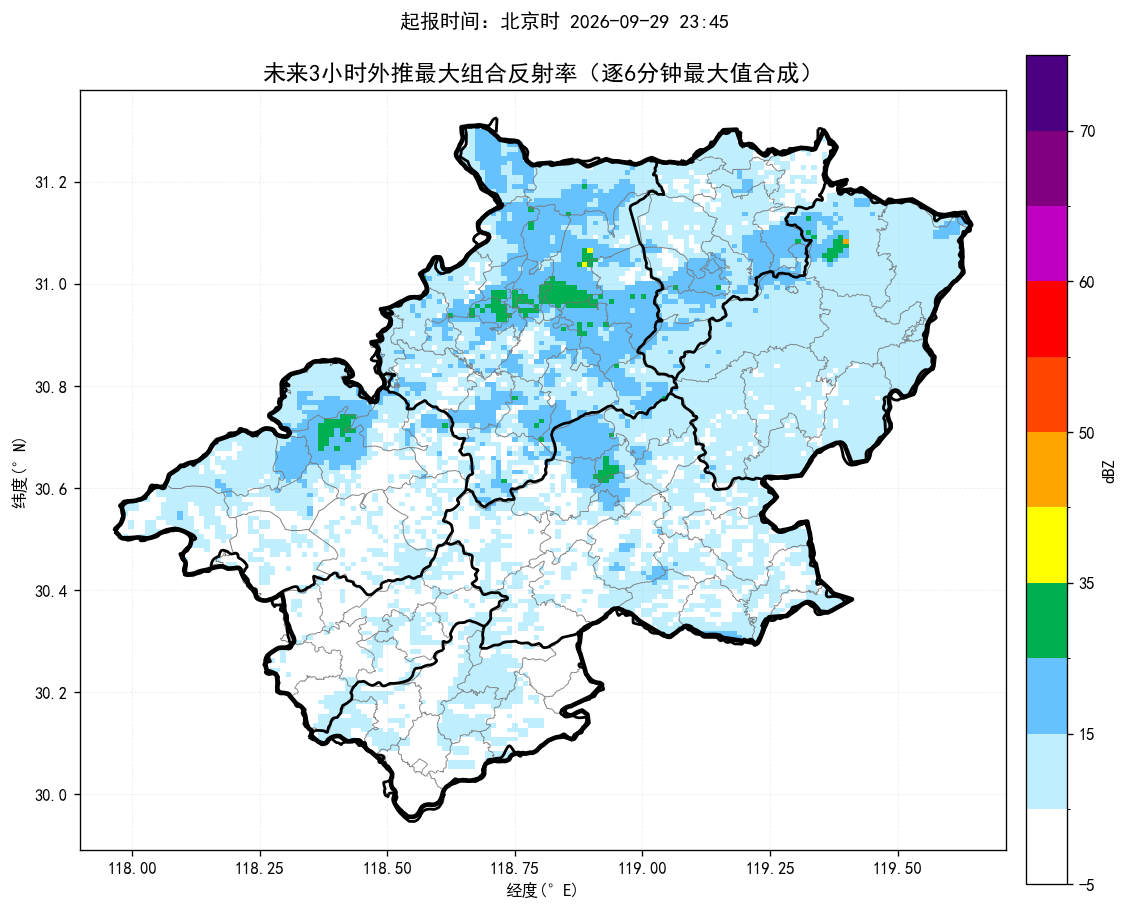
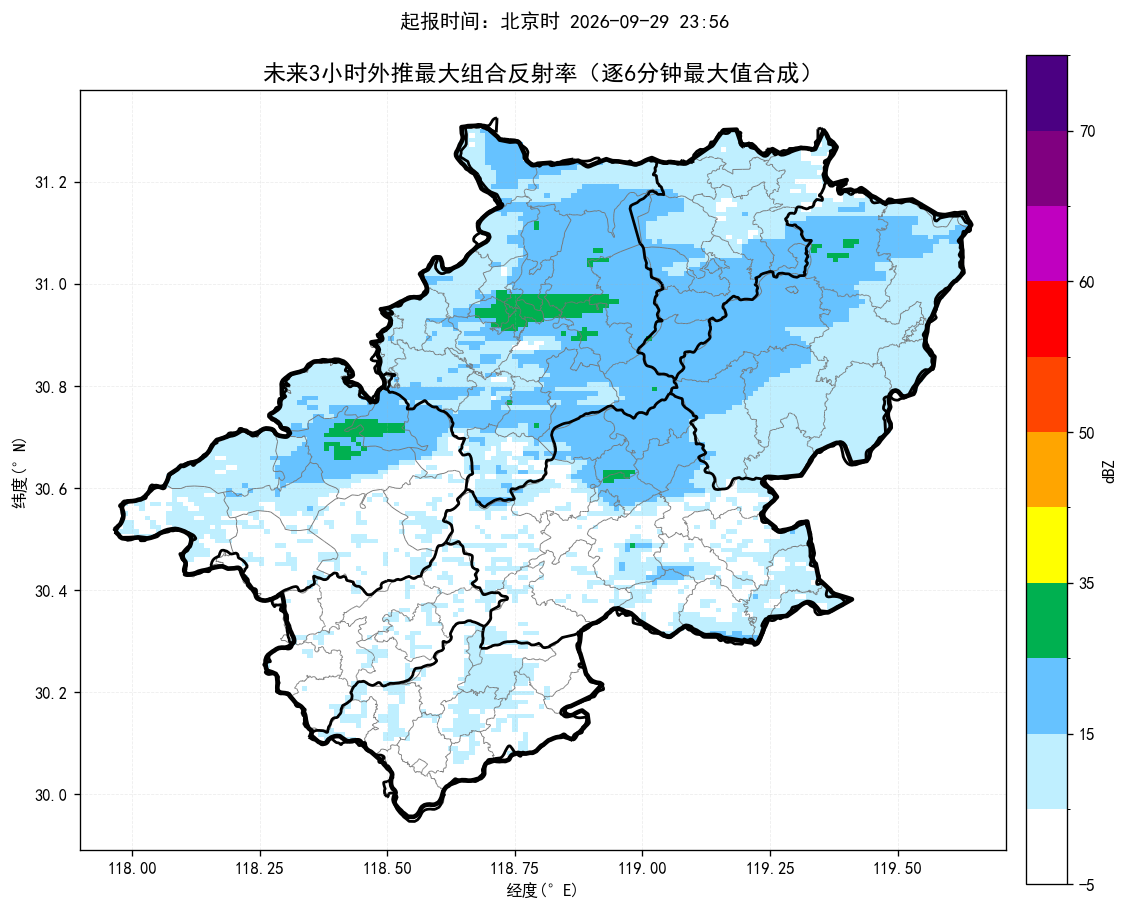
update nowcast products

Changed region(s): [[0.0931, 0.1231, 0.8688, 0.8615], [0.6206, 0.0, 0.6516, 0.0308], [0.2482, 0.7077, 0.2793, 0.7385]]

diff --git a/index.html b/index.html
@@ -14,14 +14,14 @@ img.product{display:block;width:100%;height:auto;margin:10px auto 26px;border:1p
 .footer{font-size:13px;color:#777;text-align:center;margin-top:30px}
 @media(max-width:700px){.sheet{margin:0;padding:18px 15px}.alert-title{font-size:22px}.county-line{font-size:17px}.prob{font-size:18px}}
 </style></head><body><main class="sheet">
-<div class="time">起报时间：北京时 2026-09-29 23:45</div>
+<div class="time">起报时间：北京时 2026-09-29 23:56</div>
 <div class="alert-title">未来一小时降水量超过 20 毫米的乡镇：</div><div class="county-line">无</div>
 <div class="alert-title">未来三小时降水量超过 50 毫米的乡镇：</div><div class="county-line">无</div>
 <div class="alert-title">未来三小时雷暴大风（组合反射率 > 55 dBZ）的乡镇：</div><div class="county-line">无</div>
-<div class="prob">最大降水量概率预估：宣城市范围内未来三小时累计降水达到50毫米概率约0%，达到80毫米概率约0%，达到100毫米概率约0%。</div>
-<div class="section-title">未来降水预报图：</div><img class="product auto-refresh-product" data-src="短临降水预报.png" src="短临降水预报.png?v=20260929235120" alt="未来降水预报图">
-<div class="section-title">未来三小时组合反射率图：</div><img class="product auto-refresh-product" data-src="未来3小时组合反射率.png" src="未来3小时组合反射率.png?v=20260929235120" alt="未来三小时组合反射率图">
-<div class="section-title">未来三小时雷暴大风图：</div><img class="product auto-refresh-product" data-src="未来3小时雷暴大风.png" src="未来3小时雷暴大风.png?v=20260929235120" alt="未来三小时雷暴大风图">
+<div class="prob">最大降水量概率预估：宣城市范围内未来三小时降水偏小，最大预报约4.8毫米，暂不进行50/80/100毫米概率预估。</div>
+<div class="section-title">未来降水预报图：</div><img class="product auto-refresh-product" data-src="短临降水预报.png" src="短临降水预报.png?v=20260930000229" alt="未来降水预报图">
+<div class="section-title">未来三小时组合反射率图：</div><img class="product auto-refresh-product" data-src="未来3小时组合反射率.png" src="未来3小时组合反射率.png?v=20260930000229" alt="未来三小时组合反射率图">
+<div class="section-title">未来三小时雷暴大风图：</div><img class="product auto-refresh-product" data-src="未来3小时雷暴大风.png" src="未来3小时雷暴大风.png?v=20260930000229" alt="未来三小时雷暴大风图">
 <div class="footer">三张产品图每 60 秒自动刷新一次；每次请求自动附加新的URL参数以绕过缓存。</div>
 <script>
 (function() {
